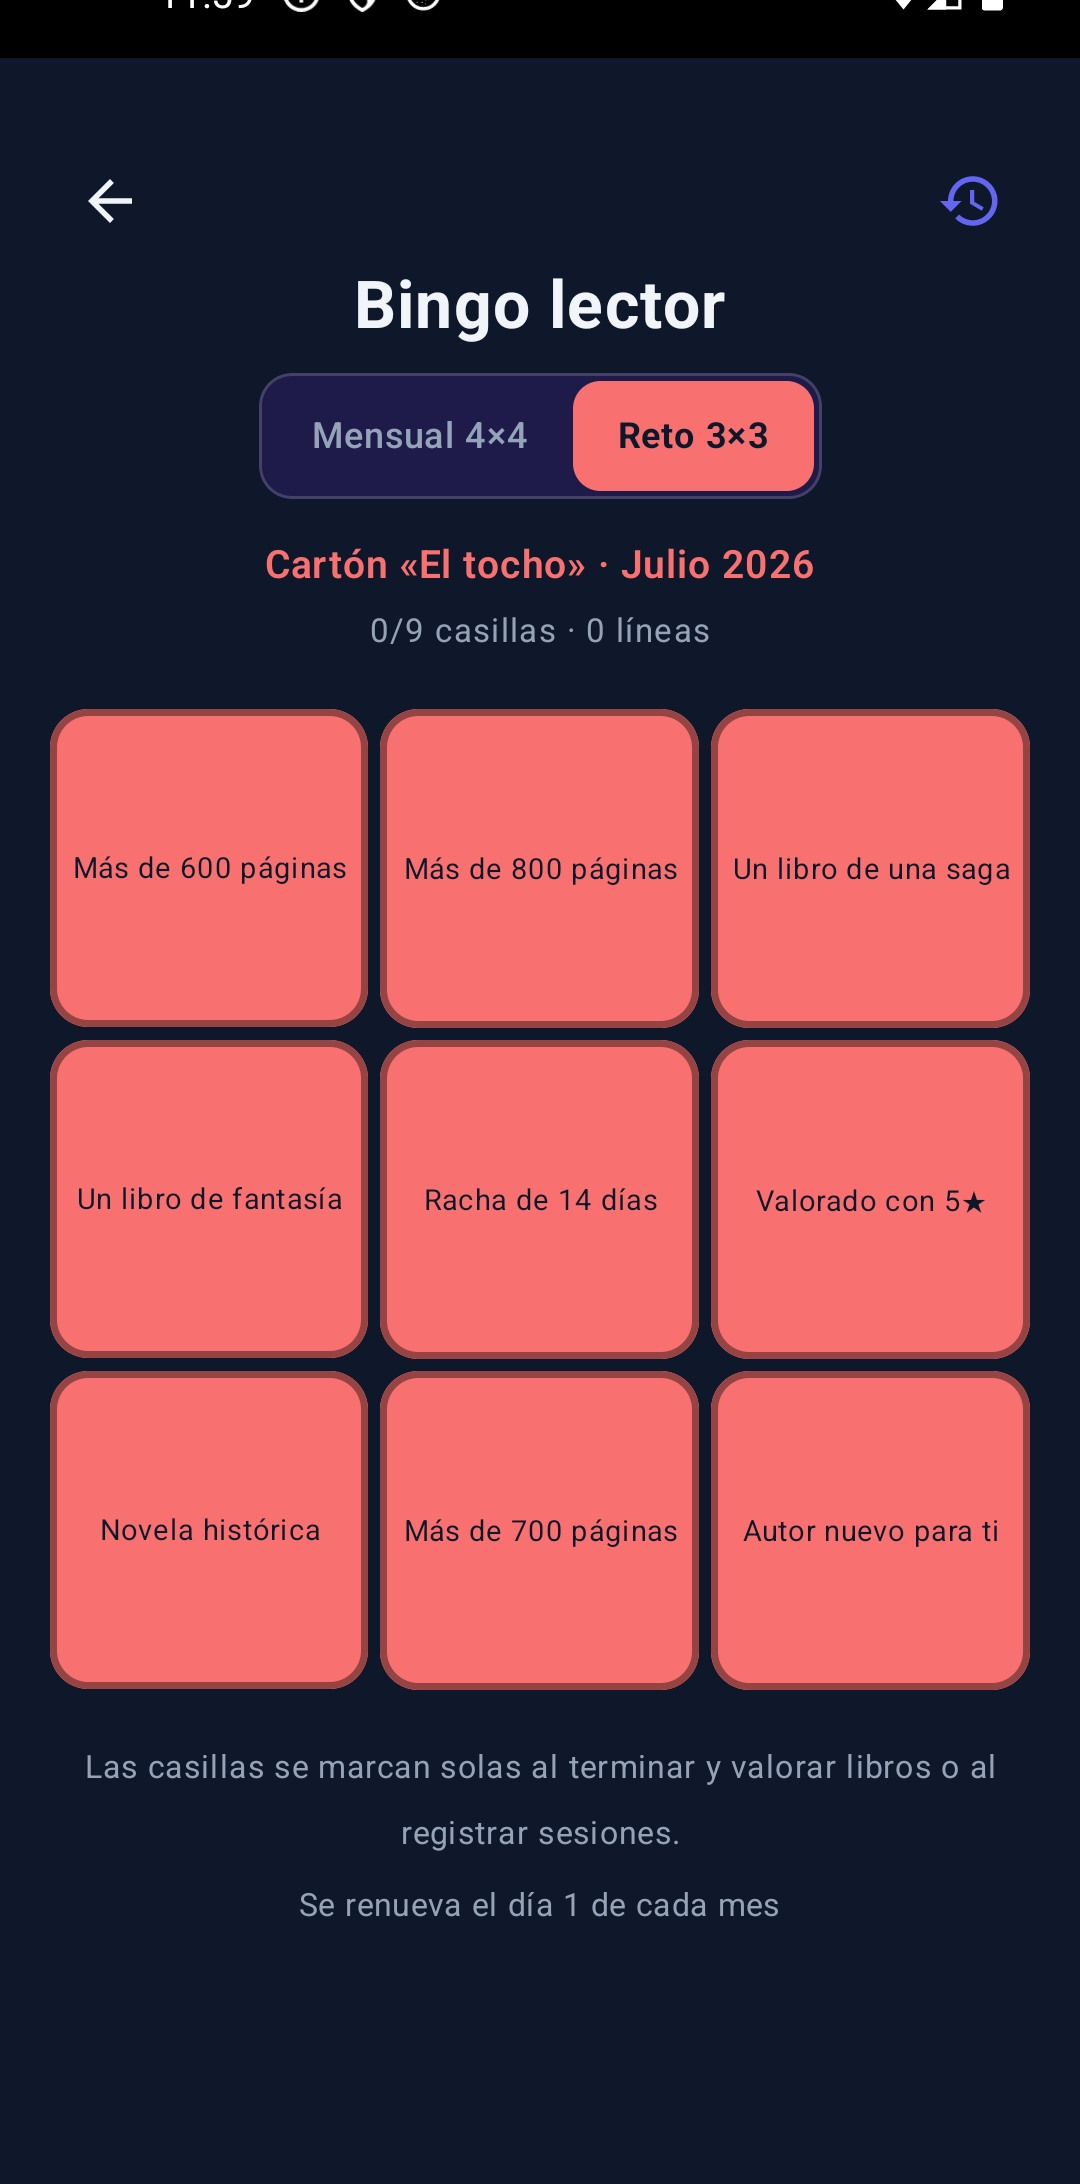
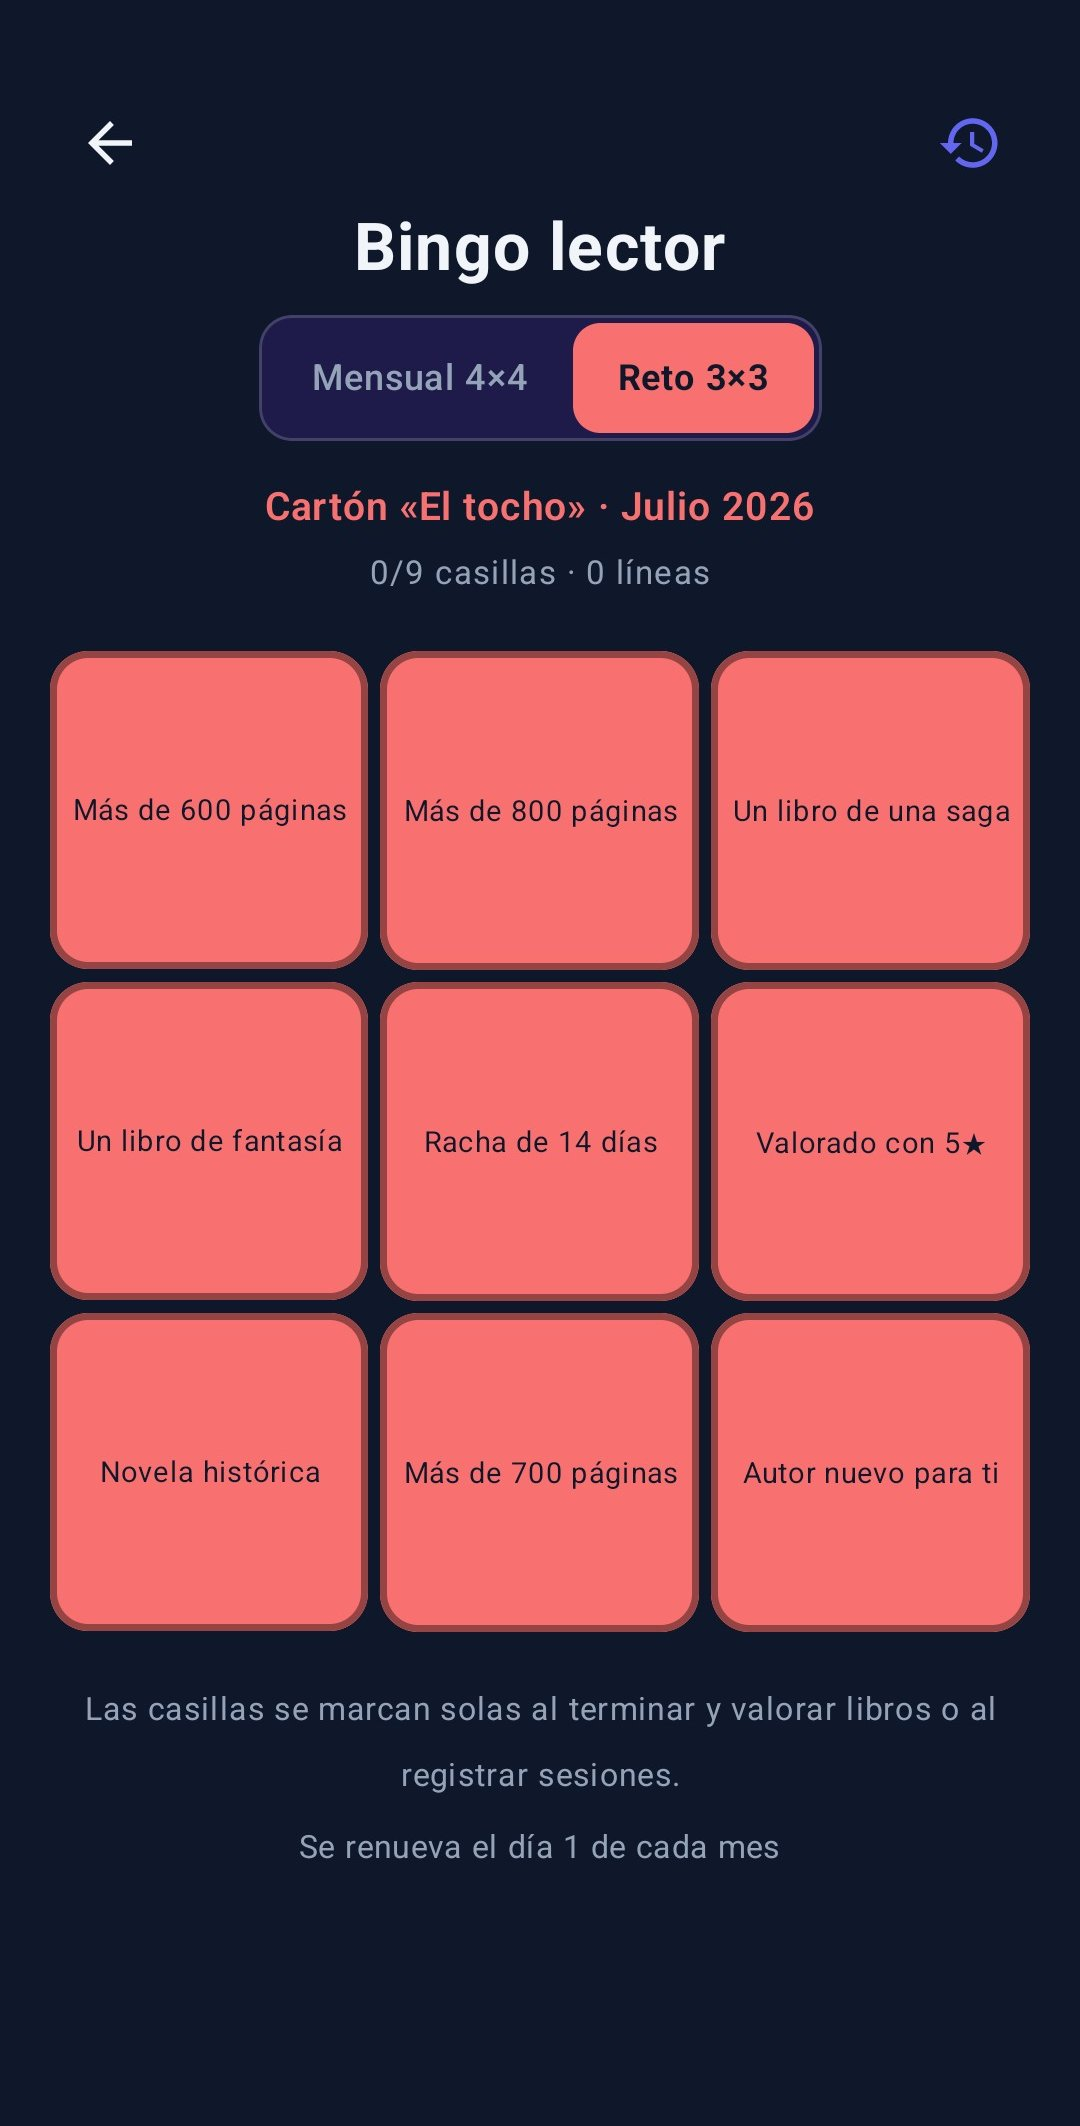
Web: capturas ES de mayo y bingo 3x3 sin la franja de la barra de estado

diff --git a/index.html b/index.html
@@ -391,8 +391,8 @@
                         <p>El mapa de calor por hora y día de la semana te descubre tus hábitos reales.</p>
                     </div>
                 </div>
-                <div class="gallery-phone" data-src="screen_calendar_may_es.jpg?v=250718b">
-                    <img src="screen_calendar_may_es.jpg?v=250718b" alt="Calendario mensual mayo" width="720" height="1455" loading="lazy">
+                <div class="gallery-phone" data-src="screen_calendar_may_es.jpg?v=250718g">
+                    <img src="screen_calendar_may_es.jpg?v=250718g" alt="Calendario mensual mayo" width="1080" height="2126" loading="lazy">
                     <div class="gallery-caption">
                         <h3>Mes a mes, en color</h3>
                         <p>Cada día con color según las páginas leídas. ¿Cuántos días sin leer tienes en mayo?</p>
@@ -405,8 +405,8 @@
                         <p>Toca cualquier mes y ve exactamente qué leíste cada día, cuánto tiempo y a qué ritmo.</p>
                     </div>
                 </div>
-                <div class="gallery-phone" data-src="screen_challenges_es.jpg?v=250718b">
-                    <img src="screen_challenges_es.jpg?v=250718b" alt="Retos y bingo lector" width="720" height="1455" loading="lazy">
+                <div class="gallery-phone" data-src="screen_challenges_es.jpg?v=250718g">
+                    <img src="screen_challenges_es.jpg?v=250718g" alt="Retos y bingo lector" width="1080" height="2126" loading="lazy">
                     <div class="gallery-caption">
                         <h3>Retos y bingo lector</h3>
                         <p>Pon metas por páginas, rachas o géneros. O juega al bingo: casillas que tú defines, a marcar a lo largo del año.</p>